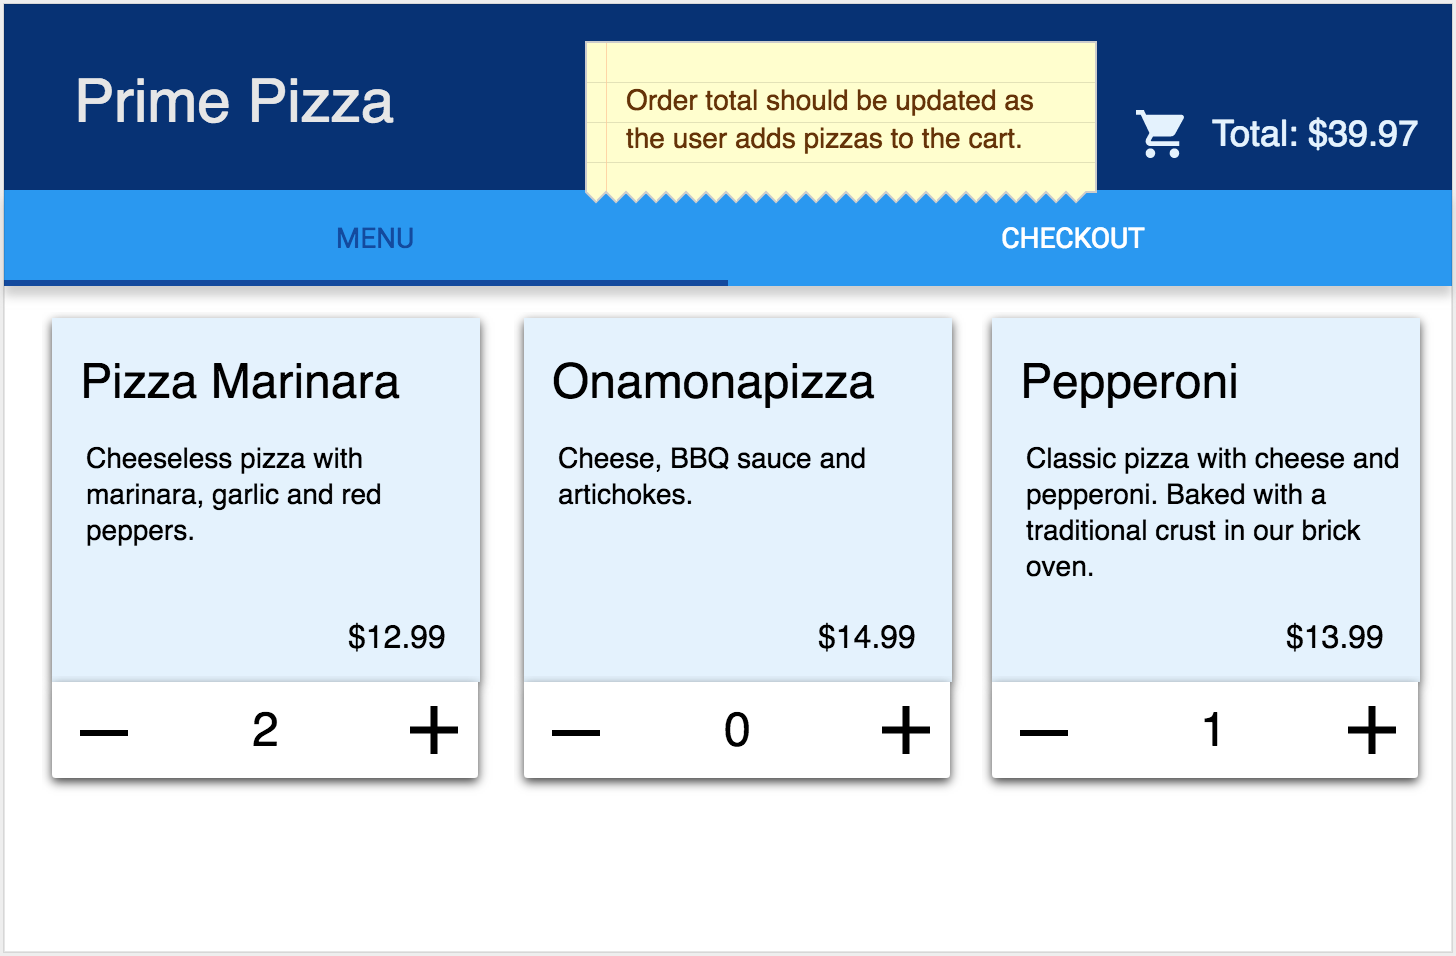
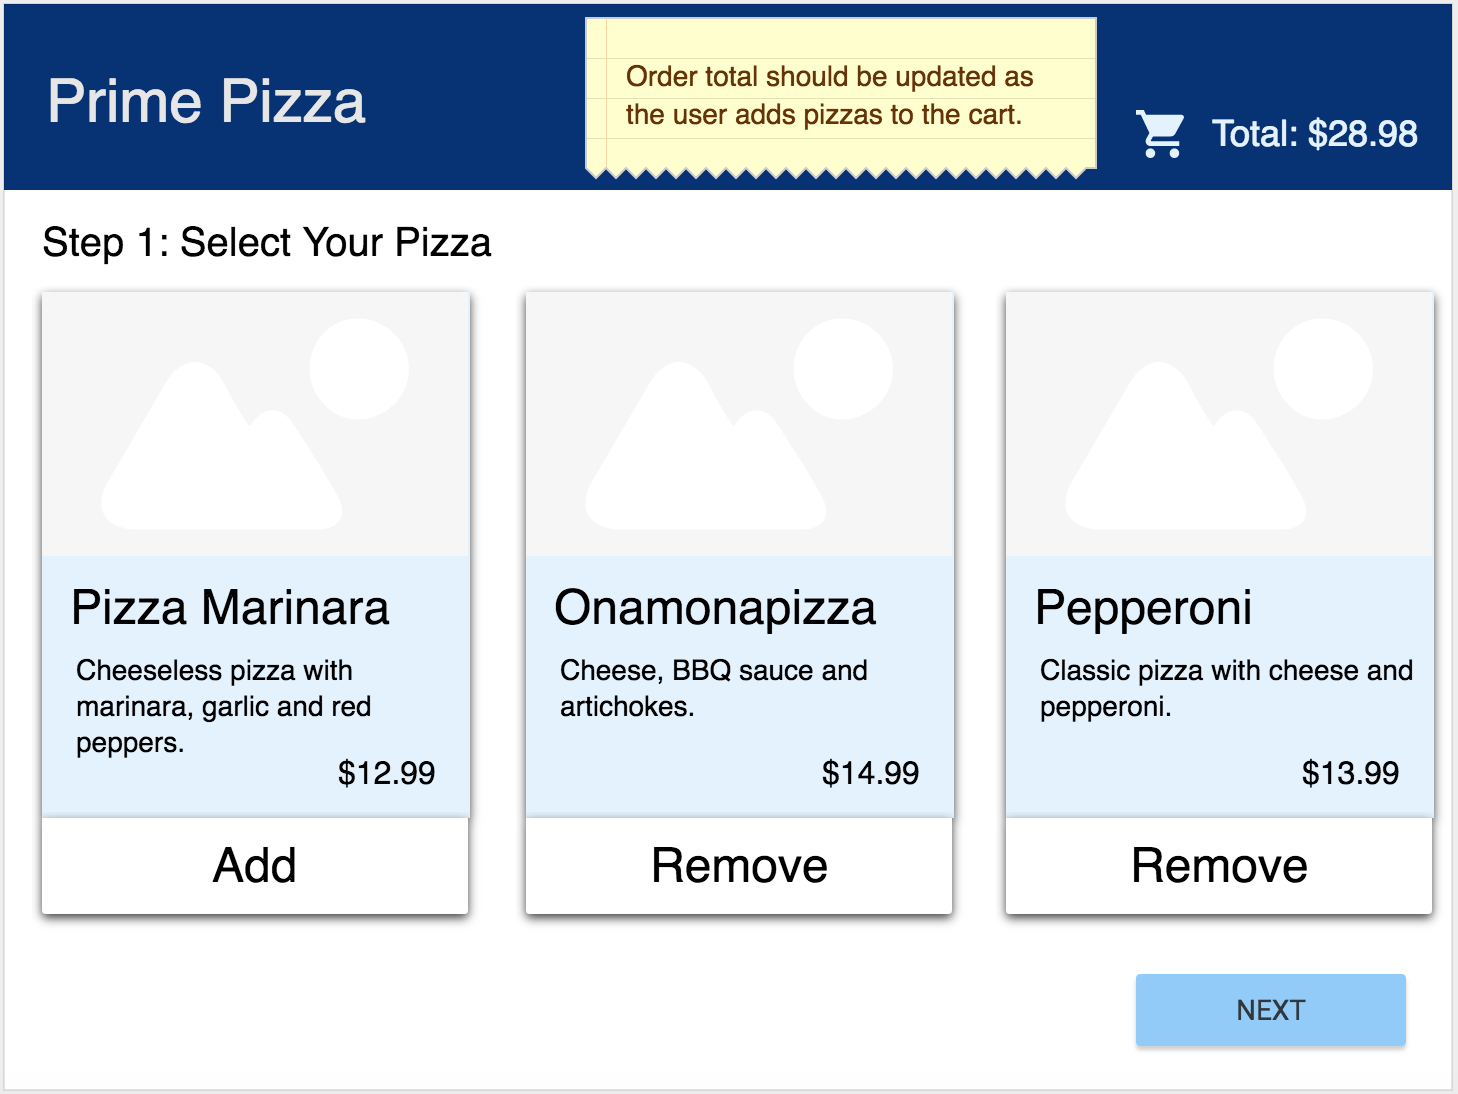
Added server side code. Updated README.md with new project requiements.

diff --git a/server/routes/order.router.js b/server/routes/order.router.js
@@ -1,0 +1,61 @@
+const express = require('express');
+const router = express.Router();
+const mongoose = require('mongoose');
+const Schema = mongoose.Schema;
+
+// Mongoose schema for Orders
+const OrderSchema = new Schema({
+    customer: { 
+        name: { type: String },
+        street_address: { type: String },
+        city: { type: String },
+        zip: { type: Number }
+    },
+    pizzas: [{ 
+        _id: false,
+        pizza: { type: Schema.ObjectId, ref: 'Pizza' }, // links to the Pizza schema
+        quantity: { type: Number, default: 1 }
+    }],
+    order_total: { type: Number, required: true },
+    type: { type: String } // pickup or delivery
+});
+
+const Orders = mongoose.model('Orders', OrderSchema);
+
+
+// GET all orders that have been placed, populate with data from the pizza collection
+router.get('/', (req, res) => {
+    console.log('GET /order');
+    // populate will 'join' the pizzas in the order with the Pizza collection
+    Orders.find({}).populate('pizzas.pizza_id').then((result) => {
+        res.send(result);
+    }).catch((error) => {
+        console.log('Error GET /order', error);
+        res.sendStatus(500);  
+    });
+})
+
+// POST a new order
+router.post('/', (req, res) => {
+    console.log('POST /order', req.body);
+    const pizzaOrder = req.body;
+    const order = new Orders(pizzaOrder);
+    order.save().then((result) => {
+        res.sendStatus(201);
+    }).catch((error) => {
+        console.log('Error POST /order', error);
+        res.sendStatus(500);
+    });
+});
+
+// DELETE an order
+router.delete('/:id', (req, res) => {
+    Orders.findByIdAndRemove({_id: req.params.id}).then((result) => {
+        res.sendStatus(200);
+    }).catch((error) => {
+        console.log('Error DELETE /order', error);
+        res.sendStatus(500);
+    })
+});
+
+module.exports = router;

diff --git a/server/server.js b/server/server.js
@@ -1,14 +1,22 @@
-var express = require('express');
-var app = express();
-var bodyParser = require('body-parser');
-var port = process.env.PORT || 5000;
+const express = require('express');
+const app = express();
+const bodyParser = require('body-parser');
+const port = process.env.PORT || 5000;
+
+/** ---------- MONGOOSE ---------- **/
+const database = require('./modules/database.js');
 
 /** ---------- MIDDLEWARE ---------- **/
 app.use(bodyParser.json()); // needed for angular requests
+app.use(bodyParser.urlencoded({extended: true}));
 app.use(express.static('build'));
 
 /** ---------- EXPRESS ROUTES ---------- **/
+const pizzaRouter = require('./routes/pizza.router.js');
+app.use('/pizza', pizzaRouter);
 
+const orderRouter = require('./routes/order.router.js');
+app.use('/order', orderRouter);
 
 /** ---------- START SERVER ---------- **/
 app.listen(port, function () {

diff --git a/server/modules/database.js b/server/modules/database.js
@@ -1,0 +1,29 @@
+/* the only line you likely need to change is
+ mongoURI = 'mongodb://localhost:27017/prime_app';
+ change `prime_app` to the name of your database, and you should be all set!
+*/
+
+const mongoose = require('mongoose');
+
+/* Mongo Connection */
+let mongoURI = '';
+
+// process.env.MONGODB_URI will only be defined if you are running on Heroku
+if (process.env.MONGODB_URI) {
+    // Heroku will provide this when deployed
+    // use the string value of the environment variable
+    mongoURI = process.env.MONGODB_URI;
+} else {
+    // use the local database server
+    mongoURI = 'mongodb://localhost:27017/pizza_parlor';
+}
+
+mongoose.connect(mongoURI);
+
+mongoose.connection.once('open', () => {
+    console.log('Mongo connected');
+});
+
+mongoose.connection.on('error', (err) => {
+    console.log('Error on mongoose connection: ', err);
+});

diff --git a/server/routes/pizza.router.js b/server/routes/pizza.router.js
@@ -1,0 +1,27 @@
+const express = require('express');
+const router = express.Router();
+
+const mongoose = require('mongoose');
+
+const Schema = mongoose.Schema;
+
+// Mongoose Schema
+const PizzaSchema = new Schema({
+    name: { type: String, required: true },
+    description: { type: String, required: true },
+    cost: { type: Number, required: true }
+});
+
+const Pizza = mongoose.model('Pizza', PizzaSchema);
+
+router.get('/', (req, res) => {
+    Pizza.find({}).then((result) => {
+        res.send(result);
+    }).catch((error) => {
+        console.log('Error GET /pizza', error)
+        res.sendStatus(500);
+    });
+
+})
+
+module.exports = router;

diff --git a/src/components/App/App.js b/src/components/App/App.js
@@ -10,6 +10,7 @@ class App extends Component {
           <h1 className="App-title">Prime Pizza</h1>
         </header>
         <br/>
+        <img src="images/pizza_photo.png"/>
         <p>Pizza is great.</p>
       </div>
     );

diff --git a/README.md b/README.md
@@ -2,11 +2,15 @@
 
 Before you get started make sure to read through **ALL** requirements and outline a plan for your group. Assign out tasks and use branches to allow team members to work in parallel.
 
-> HINT: Start with your `/api/pizza` GET route to give client side developers something to work with.
-
 ### Setup
 
-Create your database and tables using the provided `data.sql` file. Start the server.
+Server side code for baseline functionality has been provided for you. Each member of your team will need to import the list of pizzas into your Mongo Database. Make sure mongo is running, open the project folder in terminal and run the following command:
+
+```
+mongoimport --db pizza_parlor --collection pizzas --file pizza.csv --type csv --headerline
+```
+
+Remember, Mongo creates the database and collections automatically! There is no need to do any additional database work after importing the pizzas.
 
 ```
 npm install
@@ -19,38 +23,84 @@ Now that the server is running, open a new terminal tab with `cmd + t` and start
 npm run client
 ```
 
+## API DOCS
+
+After starting up the server, the following routes should be available. You can test them with Postman.
+
+### GET PIZZA  
+
+`/api/pizza`
+
+**Returns** an array of objects with *_id*, *name*, *description* and *cost* properties. 
+
+### POST ORDER
+
+`/api/order`
+
+**Post Data** should be an object that contains user information, *name*, *street address*, *city*, *zip*, *order_total* and an array of pizza id's as object. 
+
+**Example Post Data:**
+
+```JavaScript
+{
+    customer: { 
+        name: "Chris",
+        street_address: "123 street",
+        city: "Minneapolis",
+        zip: 55408
+    },
+    pizzas: [{ 
+        pizza: "5afc94b8c62836fadd80496c" // _id of pizza, yours will be different!
+    },
+    { 
+        pizza: "5afc94f3c62836fadd804979"  // _id of pizza, yours will be different!
+    }],
+    order_total: 25.98
+}
+```
+
+### GET ORDERS
+
+`/api/order`
+
+**Returns** an array of orders.
+
+
 ## BASE REQUIREMENTS
 
-Your client has asked your team to build a pizza ordering system. They have provided a list of pizzas they currently offer in SQL format (`data.sql`). Your team should build out the following views.
+Your client has asked your team to build a pizza ordering system. They have provided some of the server side routes and a list of pizzas they currently offer in CSV format (`pizza.csv`). Your team should build out the following views.
 
-### MENU
+### ORDER - SELECT PIZZA
 
-Display all of the pizzas on the screen. Allow users to increase or decrease the quantity of each pizza they would like to order. Show the total cost of items in the cart in the top right of this page.
+When visiting [http://localhost:3000/](http://localhost:3000/) display all of the pizzas on the screen. Allow users to add or remove each pizza they would like to order. **For base mode, only allow the user to have one of each pizza in their cart.** Show the total cost of items in the cart in the top right of this page. 
 
-![menu page](wireframes/screen-one.png)
+This page should have a next button that brings the user to the **enter customer information page**.
 
-### CHECKOUT
+![Select Pizza View](wireframes/screen-one.png)
 
-Include an input field for the users name and display a table of pizzas they have added to the cart. Users should not be able to modify item totals on this screen. When they click checkout, the users *name* and *order total* should be sent to the server and saved in the database.
+### ORDER - ENTER CUSTOMER INFORMATION
 
-> NOTE: **As a stretch goal**, add a junction table and save each pizza that has been added to the order. 
+Collect user information, *name*, *street address*, *city* and *zip*. This page should have an option to select pickup vs. delivery. The total cost of the order should appear in the top right of this page. This page should have a next button that brings the user to the **checkout** page.
 
-![checkout page](wireframes/screen-two.png)
+![Select Pizza View](wireframes/screen-two.png)
 
-### ORDERS
+### ORDER - CHECKOUT
 
-This page **should not** appear in the navigation bar. Eventually the client would like to add authentication but for now, it will be available to anyone with the url [http://localhost:3000/orders](http://localhost:3000/orders). This page will display the name, time and order total for each of the orders placed.
+Users should not be able to modify item totals on this screen. When they click checkout, the user information, order total and array of pizzas should be sent to the server. After the checkout is complete, navigate the user back to the **select pizza** page.
 
-> NOTE: **Base mode** does not require a JOIN. Just show all records from the orders table.
+![Select Pizza View](wireframes/screen-three.png)
 
-![orders page](wireframes/screen-three.png)
+### ADMIN - ORDERS
+
+This page **should not** appear in the navigation bar. Eventually the client would like to add authentication but for now, it will be available to anyone with the url [http://localhost:3000/admin](http://localhost:3000/admin). This page will display the name, time and order total for each of the orders placed.
+
+![Select Pizza View](wireframes/screen-admin.png)
 
 
 ## STRETCH GOALS
 
-- Create a new route that allows admins to add pizzas [http://localhost:3000/admin](http://localhost:3000/admin).
 - Improve the stying of the app using Material-UI cards, buttons, nav bar and icons.
-- Create a junction table and keep track of which pizzas are added to each order.
+- Allow the user to go back to previous pages (until they've completed checkout).
 - Display a list of pizzas for each order on the orders page. 
 - Add a button on the orders page to track delivery status.
-- Give each pizza an image url and add pictures to the `public/images` folder.
+- Add pictures to the `public/images` folder and update the image url for each pizza in the database using Robo Mongo. 
